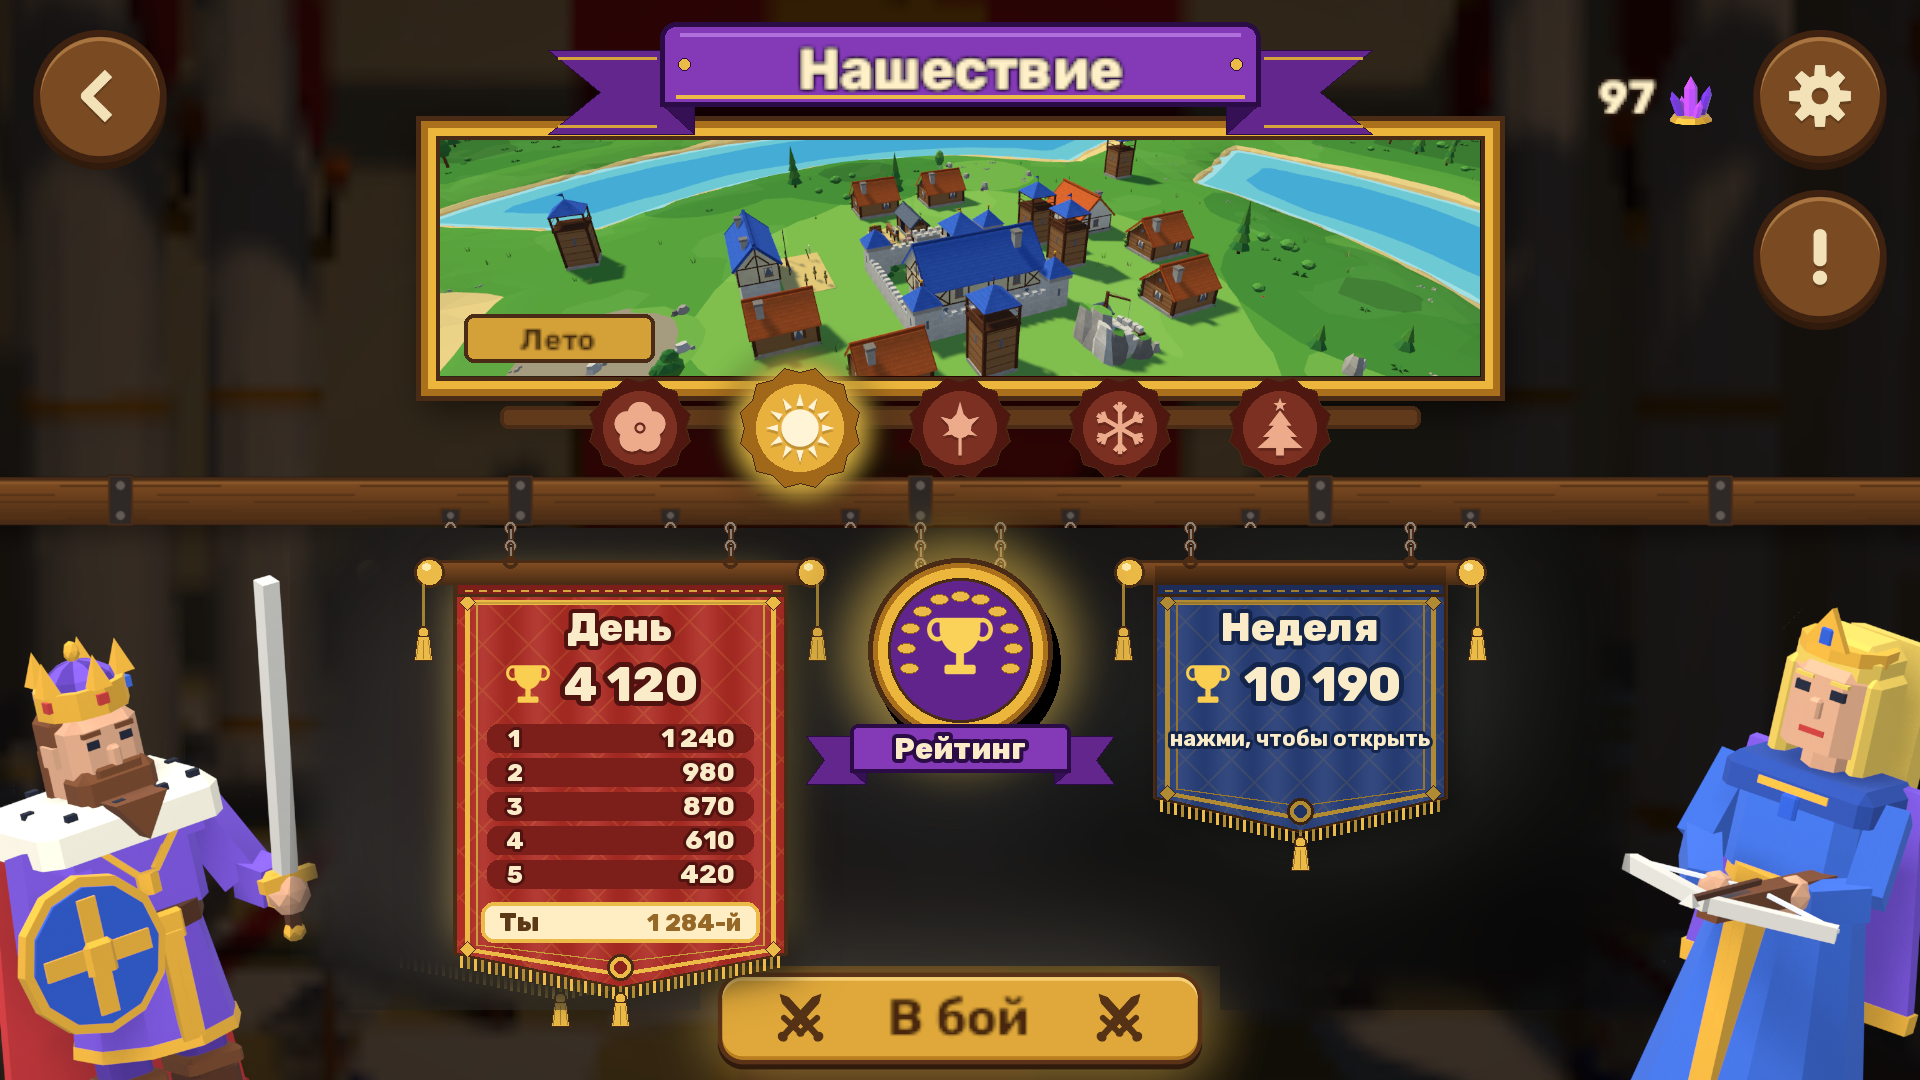
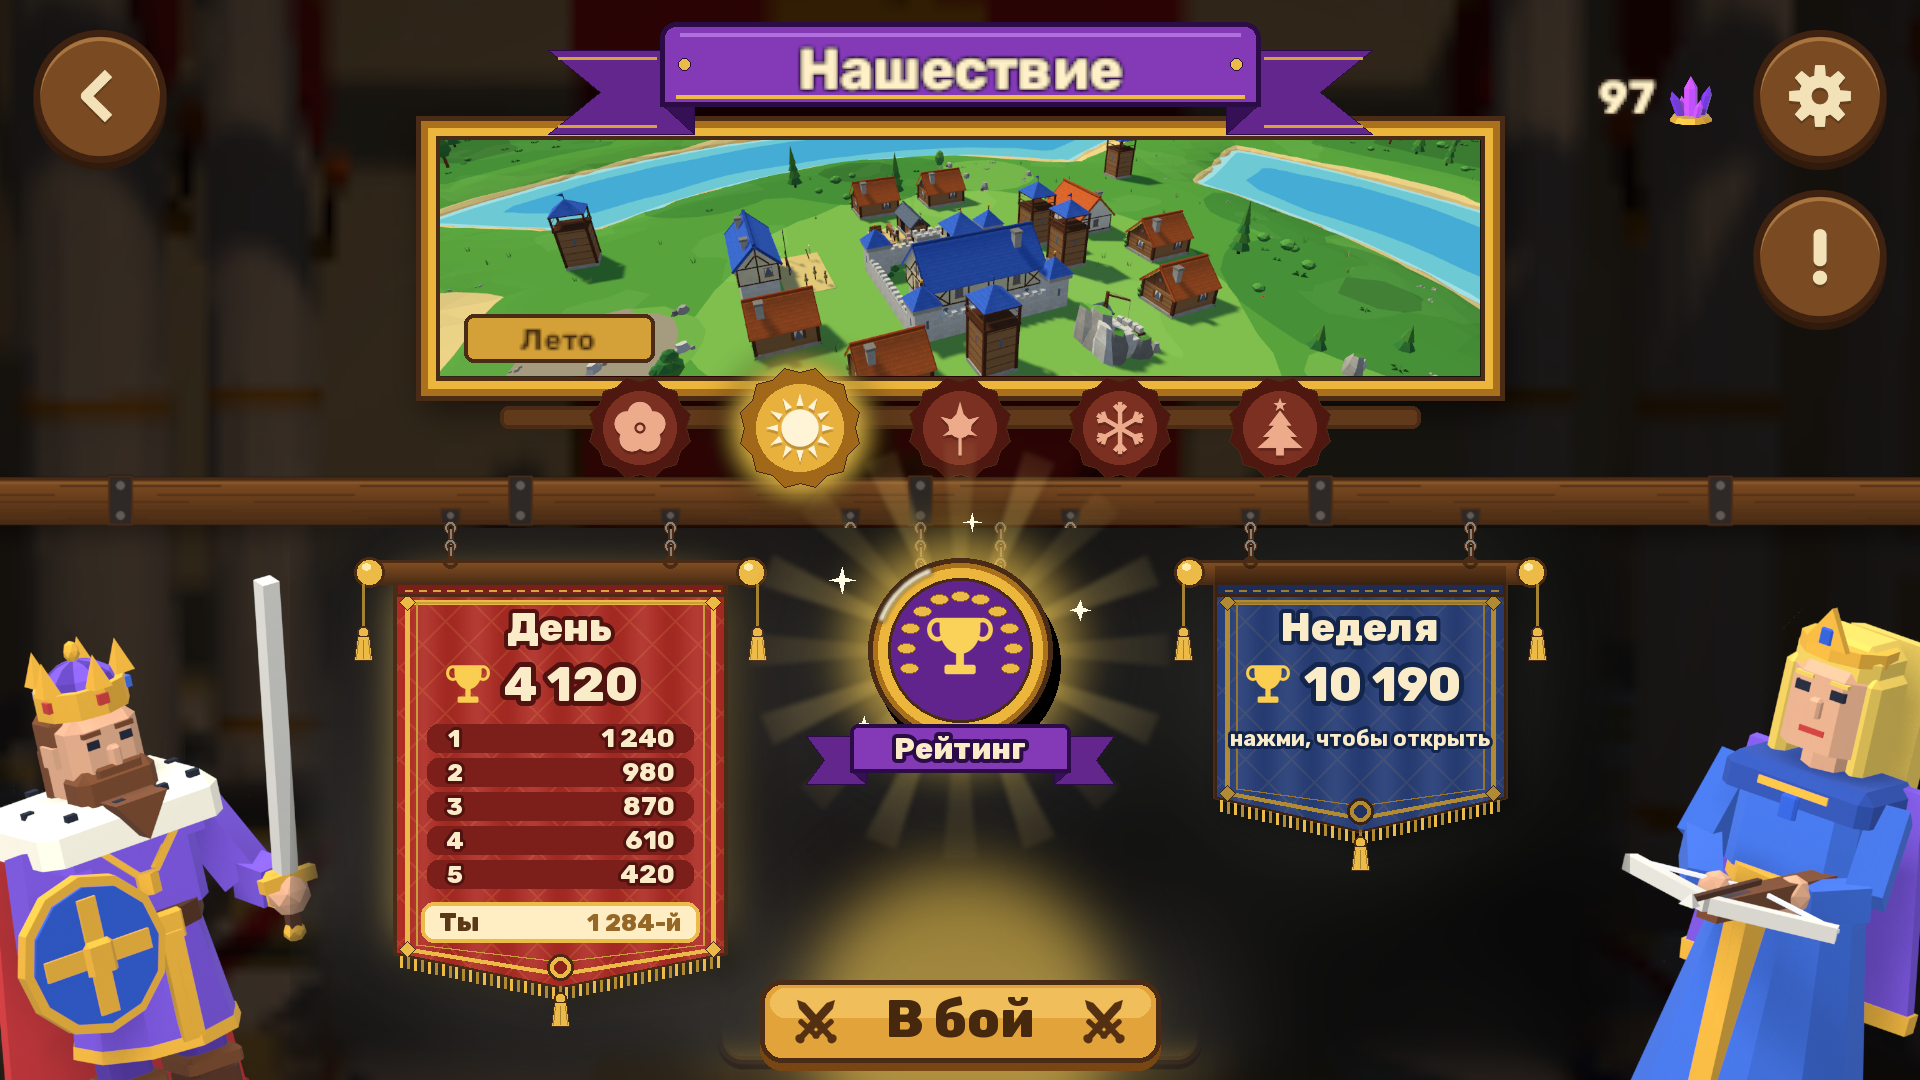
Invasion rating mock-ups v2: nothing overlaps, the rating medallion gets rays, glow and sparkles

Changed region(s): [[0.1875, 0.4278, 0.8125, 1.0], [0.6875, 0.9167, 0.8125, 1.0], [0.1875, 0.9472, 0.2188, 0.9778]]

diff --git a/Tools/ui/invasion_rating_mockup.py b/Tools/ui/invasion_rating_mockup.py
@@ -21,7 +21,8 @@ from menu_shop_mockup import W, H, R, INK, CREAM, GOLD, GOLD_D, text, put, cryst
 OUT = R + 'Design/ui/'
 SHOT = R + 'playtest_shots/inv_hall.png'
 PURPLE, PURPLE_D = (132, 58, 182), (44, 12, 70)
-LEFT, RIGHT = W / 2 - 340, W / 2 + 340
+LEFT, RIGHT = W / 2 - 400, W / 2 + 400
+FIGHT = (W / 2 - 200, H - 100, W / 2 + 200, H - 18)   # «В бой», narrower: the banners clear it
 
 
 def murk(img, box):
@@ -54,7 +55,20 @@ def medallion(img, cx):
     cy, r = a.BEAM_Y + 150, 92
     for x in (cx - 40, cx + 40):
         a.chain(d, x, a.BEAM_Y + 22, cy - r * 0.86)
-    glow(img, (cx, cy), int(r * 4.2), 0.55)
+    rays = c.layer()
+    rd = ImageDraw.Draw(rays)
+    import math
+    for k in range(16):
+        t0, t1 = math.radians(k * 22.5 - 5), math.radians(k * 22.5 + 5)
+        rd.polygon([(cx, cy), (cx + math.cos(t0) * r * 2.3, cy + math.sin(t0) * r * 2.3), (cx + math.cos(t1) * r * 2.3, cy + math.sin(t1) * r * 2.3)],
+                   fill=(255, 220, 120, 70 if k % 2 else 40))
+    m = Image.new('L', (W, H), 0)
+    ImageDraw.Draw(m).ellipse((cx - r * 2.3, cy - r * 2.3, cx + r * 2.3, cy + r * 2.3), fill=255)
+    fade = Image.new('L', (W, H), 0)
+    ImageDraw.Draw(fade).ellipse((cx - r * 2.1, cy - r * 2.1, cx + r * 2.1, cy + r * 2.1), fill=255)
+    rays.putalpha(Image.composite(rays.getchannel('A'), Image.new('L', (W, H), 0), fade.filter(ImageFilter.GaussianBlur(40))))
+    img.alpha_composite(rays.filter(ImageFilter.GaussianBlur(3)))
+    glow(img, (cx, cy), int(r * 4.2), 0.7)
     d = ImageDraw.Draw(img)
     d.ellipse((cx - r + 8, cy - r + 14, cx + r + 8, cy + r + 14), fill=(0, 0, 0, 110))
     d.ellipse((cx - r, cy - r, cx + r, cy + r), fill=GOLD_D, outline=INK, width=5)
@@ -69,6 +83,14 @@ def medallion(img, cx):
             x = cx + side * abs(x - cx)
             d.ellipse((x - 9, y - 5, x + 9, y + 5), fill=(236, 186, 70), outline=(150, 100, 30))
     put(img, c.tinted(c.icon('Hud_Trophy', 78), (250, 210, 90)), (cx, cy - 4))
+    # the glint running round the rim, and sparkles about it
+    gl = c.layer()
+    ImageDraw.Draw(gl).arc((cx - r + 4, cy - r + 4, cx + r - 4, cy + r - 4), 200, 250, fill=(255, 252, 230, 255), width=7)
+    img.alpha_composite(gl.filter(ImageFilter.GaussianBlur(2)))
+    from menu_shop_mockup import sparkle
+    d = ImageDraw.Draw(img)
+    for sx, sy, sr in ((-118, -70, 13), (120, -40, 10), (-96, 74, 8), (104, 92, 12), (12, -128, 9)):
+        sparkle(d, cx + sx, cy + sy, sr)
     # the ribbon under it
     y0, y1, w = cy + r - 18, cy + r + 30, 220
     for side in (-1, 1):
@@ -82,9 +104,7 @@ def medallion(img, cx):
 
 def hall_mockup():
     img = Image.open(SHOT).convert('RGBA')
-    keep = img.crop((700, 966, 1220, 1080))
-    murk(img, (290, 528, 1630, 1010))
-    img.paste(keep, (700, 966))
+    murk(img, (290, 528, 1630, 1080))
     # the two banners, wider apart: the day picked (big), the week small
     for cx, col, big, title, pts in ((LEFT, (178, 44, 36), True, 'День', '4 120'), (RIGHT, (46, 84, 170), False, 'Неделя', '10 190')):
         size = a.BIG if big else a.SMALL
@@ -116,23 +136,39 @@ def hall_mockup():
         else:
             text(d, (cx, T + 140), 'нажми, чтобы открыть', 22, stroke=3, stroke_fill=dark, heavy=False)
     medallion(img, W / 2)
+    fight(img)
     img.convert('RGB').save(OUT + 'InvasionRating_Hall.png')
+
+
+def fight(img):
+    """The game's gold «В бой», 400 wide: swords at both ends, its glow behind."""
+    x0, y0, x1, y1 = FIGHT
+    glow(img, ((x0 + x1) / 2, (y0 + y1) / 2), 520, 0.6)
+    d = ImageDraw.Draw(img)
+    d.rounded_rectangle((x0, y0 + 8, x1, y1 + 8), 22, fill=(120, 70, 18))
+    d.rounded_rectangle(FIGHT, 22, fill=(226, 164, 58), outline=INK, width=5)
+    d.rounded_rectangle((x0 + 10, y0 + 8, x1 - 10, y0 + (y1 - y0) * .45), 16, fill=(240, 190, 90))
+    cy = (y0 + y1) / 2
+    sw = c.tinted(c.icon('Swords', 60), (84, 48, 18))
+    put(img, sw, (x0 + 56, cy))
+    put(img, sw.transpose(Image.FLIP_LEFT_RIGHT), (x1 - 56, cy))
+    text(ImageDraw.Draw(img), ((x0 + x1) / 2, cy - 2), 'В бой', 52, fill=(70, 40, 14), stroke=0)
 
 
 def window_mockup():
     img = Image.open(SHOT).convert('RGBA')
     img = Image.alpha_composite(img, Image.new('RGBA', (W, H), (8, 4, 2, 215)))
-    box = (250, 120, W - 250, H - 50)
+    box = (250, 96, W - 250, H - 40)
     img = c.wood_frame(img, box, 46)
-    inner = (box[0] + 30, box[1] + 92, box[2] - 30, box[3] - 30)
+    inner = (box[0] + 30, box[1] + 150, box[2] - 30, box[3] - 30)
     img = c.parchment(img, inner, 28)
     d = ImageDraw.Draw(img)
     # the title ribbon, the close cross
     rib = a.ribbon()
     rib = rib.crop(rib.getbbox())
-    put(img, rib, (W / 2, box[1] + 10))
+    put(img, rib, (W / 2, box[1] - 4))
     d = ImageDraw.Draw(img)
-    text(d, (W / 2, box[1] + 6), 'Доска славы', 50, stroke=5, stroke_fill=PURPLE_D)
+    text(d, (W / 2, box[1] - 10), 'Доска славы', 50, stroke=5, stroke_fill=PURPLE_D)
     c.round_button(img, (box[2] - 18, box[1] + 18), 40, '✕' if False else 'x')
     # the tabs and the timer
     tabs = (('День', False), ('Неделя', True))
@@ -146,7 +182,7 @@ def window_mockup():
     # the podium: the top three with their crowns, points and prizes
     ink = (90, 56, 24)
     lx0, lx1 = inner[0] + 30, inner[0] + 900
-    pod_cx, base = (lx0 + lx1) / 2, inner[1] + 300
+    pod_cx, base = (lx0 + lx1) / 2, inner[1] + 320
     places = ((2, 'Мира_Ветер', '18 940', '300', (190, 196, 206), 104), (1, 'КорольЛев', '21 360', '500', (236, 186, 70), 140),
               (3, 'Grimbold', '17 205', '300', (200, 130, 70), 80))
     for i, (place, name, pts, prize, col, h) in enumerate(places):
@@ -167,8 +203,7 @@ def window_mockup():
     # the list: places 4..9
     y = base + 100
     rows = (('4', 'Олаф', '16 880', '150'), ('5', 'Snowfox', '16 020', '150'), ('6', 'Ярослава', '15 760', '150'),
-            ('7', 'БарсукИгорь', '15 115', '150'), ('8', 'Kestrel', '14 990', '150'), ('9', 'Тихон', '14 410', '150'),
-            ('10', 'LadyMorgana', '14 002', '150'))
+            ('7', 'БарсукИгорь', '15 115', '150'), ('8', 'Kestrel', '14 990', '150'))
     for k, (pl, name, pts, prize) in enumerate(rows):
         yy = y + k * 46
         d.rounded_rectangle((lx0, yy - 20, lx1, yy + 20), 12, fill=(234, 210, 160) if k % 2 else (226, 198, 142))

diff --git a/Design/features/invasion-mode.md b/Design/features/invasion-mode.md
@@ -205,4 +205,4 @@ Playtest fixes: `TheKing_LetGo_GoesBackToGuardTheBase`, `WaveOrcs_AreTougher_And
 **Menu hub redesign (the user, 2026-11-16: «мне не нравится окно режима Нашествие, хочу ... другую концепцию»):** three concepts drawn by `Tools/ui/invasion_hub_concepts.py` -> `Design/ui/InvasionHub_A/B/C.png`: A «Военный совет» (war table: the theme as a gilt painting + season seals, a scroll «Доска славы» with day/week/month bookmarks, red «В бой!»), B «Зал знамён» (the modes screen carried on: theme strip, three period banners on a beam -- all periods at once, the picked one hangs low and lit), C «Ночь осады» (plague/fire banner look: night field with the horde's torches, parchment with seals, a period switch, a 1-2-3 podium «скоро», the best runs as wave shields, «Защищать замок»). Sent, NOT picked yet; the game still has the old hub (`SetupProjectMainMenuScreens.BuildInvasionScreen`).
 The user picked B «Зал знамён» (2026-11-16) and answered: background = a CASTLE HALL (arches, pillars, torches, plank floor, carpet); themes = the painting + seals (bigger, the season on a brass plate); banners = EVERYTHING on the picked one (points, 5 runs with waves, «Ты / место -- скоро»), the others only their points; the GOLD «В бой!» button. Mock-up v2 `Design/ui/InvasionHub_B2.png` (`concept_b2`) APPROVED («Утверждаю», 2026-11-16) and BUILT the same day, not seen in the game: `Tools/ui/invasion_hall_art.py` cuts the mock-up into `Assets/_Project/UI/MenuArt/InvHall_*.png` + `InvHall_layout.json` (1920x1080 rects, y down); `SetupProjectMainMenuScreens.BuildInvasionScreen` places them (hall envelopes the screen; picture under the gilt frame; season plate `#theme_<id>`; 5 wax seals = ThemePicker buttons with the game's Theme glyphs; 3 banners each Big+Glow+Details / Small+Hint, a tap area -> `SelectPeriod`); `UI/InvasionHubController` toggles them. The rows show rank + POINTS only: the records keep no wave numbers (the mock-up's «волна N» is not in the game). New keys `#theme_*`, `#invasion_place_soon`, `#invasion_banner_open` (sheet tab «Тексты: интерфейс и меню»). Moving a piece = edit the script's constants, re-run it, then setup. **Round 2 (the user, 2026-11-17), BUILT, not seen in the game:** background = mission 2's 3D THRONE ROOM (`M2ThroneSet.fbx`, far at 3000,0,3000) by `UI/InvasionHallBackdrop` (own camera, two warm point lamps, slow there-and-back flight 32 s + sway; renders 360 rows -> halved blit -> stretched RawImage = the blur; tint 0.24 + `InvHall_Vignette` = the dark; the menu camera's cullingMask is 0 while the screen is fully up); the flat `InvHall_Back` deleted. Ribbon redrawn (notched tails folded behind and lower, fold triangles, gold hems). Crystals = plaque + number + bare crystal (Gem), no disc. Banners: folds, lattice, gold border + studs, stitched hem, fringe, tip medallion + tassel, turned pole with gold knobs and tassel cords; they HANG on iron chains (HANG 110 from the middle, same for big/small) from eyes on a wood+iron beam that runs past both screen edges (2600 wide). Big banner's tip slightly under «В бой» when the week is open. **Round 3 (2026-11-17), BUILT, not seen:** ribbon rebuilt the plague/fire banners' way (square bottom corners, fold triangle from the corner inward+down to the tail, tails behind and lower); crystals = cream number + crystal, no plate, anchored top-right left of the settings; «!» = a Corner button under the settings, the same size (140); «В бой» has crossed `Glyphs/Swords.png` at both ends, a gold glow `InvHall_ButtonGlow` behind and `UI/ButtonPulse` (heartbeat swell 5.5 % + glow alpha, unscaled time).
 
-**Online rating DECIDED (the user, 2026-11-17):** Google Play Games leaderboards (not a server of our own): DAY and WEEK only -- the MONTH is removed (GPGS has no month); scores = the period's sum of best runs, sent by the phone; GPGS resets on US Pacific time, so the game must count its periods by the same bounds; rewards are given by the game itself from the player's place read before the reset (cheatable, missed if not online in time -- accepted). Known limits told to the user: Android only, weak anti-cheat. UI: a RATING button between the Day and Week banners opens a «Доска славы» window with places and rewards. Mock-ups `Tools/ui/invasion_rating_mockup.py` -> `Design/ui/InvasionRating_Hall.png` (two banners at 960 -/+ 340, a gold-rimmed purple medallion with laurel + trophy on chains, «Рейтинг» ribbon; the banner's «Ты» line shows the place) and `InvasionRating_Window.png` (Day/Week tabs, timer to the period's end, podium 1-2-3 with crown, list 4.., the player's row pinned at the foot, «Награды недели» tiers 1 / 2-3 / 4-10 / 11-100 / 101-1000 / the rest -- numbers MADE UP, to go to the sheet). Sent, NOT approved yet; nothing built; GPGS plugin + Play Console leaderboards not set up.
+**Online rating DECIDED (the user, 2026-11-17):** Google Play Games leaderboards (not a server of our own): DAY and WEEK only -- the MONTH is removed (GPGS has no month); scores = the period's sum of best runs, sent by the phone; GPGS resets on US Pacific time, so the game must count its periods by the same bounds; rewards are given by the game itself from the player's place read before the reset (cheatable, missed if not online in time -- accepted). Known limits told to the user: Android only, weak anti-cheat. UI: a RATING button between the Day and Week banners opens a «Доска славы» window with places and rewards. Mock-ups `Tools/ui/invasion_rating_mockup.py` -> `Design/ui/InvasionRating_Hall.png` (two banners at 960 -/+ 340, a gold-rimmed purple medallion with laurel + trophy on chains, «Рейтинг» ribbon; the banner's «Ты» line shows the place) and `InvasionRating_Window.png` (Day/Week tabs, timer to the period's end, podium 1-2-3 with crown, list 4.., the player's row pinned at the foot, «Награды недели» tiers 1 / 2-3 / 4-10 / 11-100 / 101-1000 / the rest -- numbers MADE UP, to go to the sheet). Round 2 of the mock-ups (the user: the ribbon and the crown sat on the tabs, the banners on «В бой»; the rating button needs an effect): window ribbon up on the frame's edge, tabs under it, podium lower, 5 list rows; banners at 960 -/+ 400 and «В бой» 400 wide (was 480) so they clear it; the medallion has turning gold RAYS behind, a glow, sparkles, a glint on its rim, and in the game it will sway on its chains and its glint run round. Sent, NOT approved yet; nothing built; GPGS plugin + Play Console leaderboards not set up.
